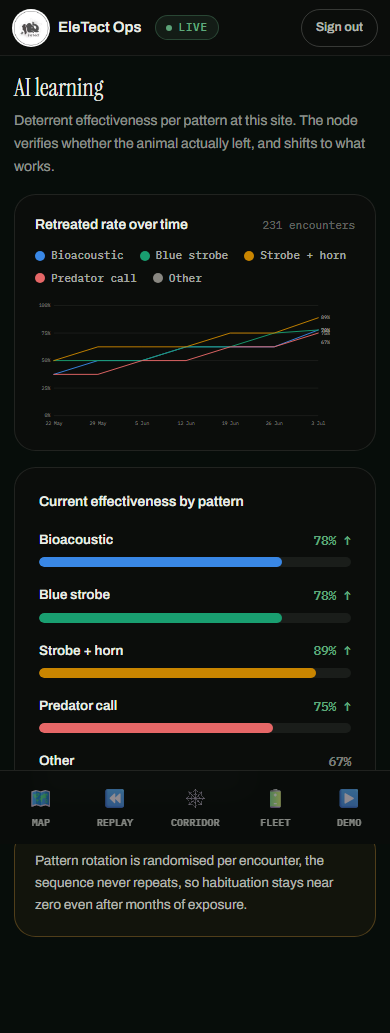
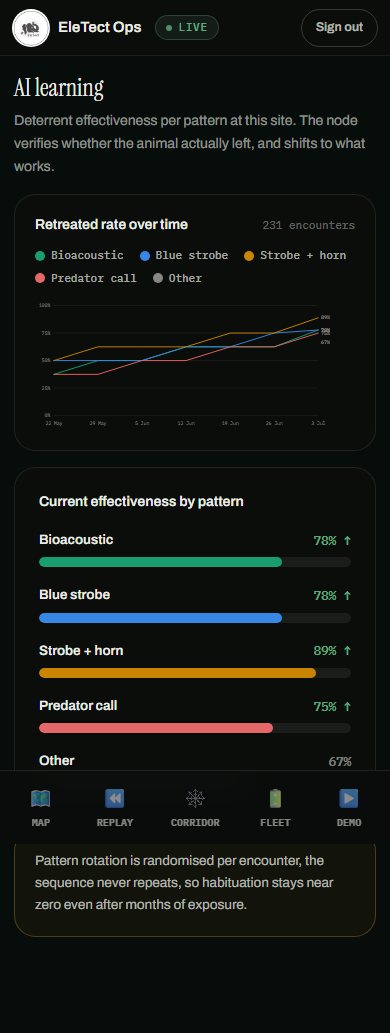
fix(web): pin blue strobe to the blue series slot

diff --git a/web/frontend/src/lib/learning.ts b/web/frontend/src/lib/learning.ts
@@ -9,6 +9,10 @@ import type { EventRow } from './dashboard'
 // colour follows the action entity, never its rank. See scripts/validate_palette.
 const SERIES_COLORS = ['#3987e5', '#199e70', '#c98500', '#e66767']
 const OTHER_COLOR = '#898781'
+// A few actions read wrong if their hue floats: "Blue strobe" in green confuses
+// more than it distinguishes. Pin those to a fixed slot; every other action keeps
+// filling the remaining slots in volume-rank order.
+const PINNED_COLORS: Record<string, string> = { 'Blue strobe': '#3987e5' }
 const WEEK_MS = 7 * 24 * 60 * 60 * 1000
 const MAX_SERIES = SERIES_COLORS.length
 // A rate from too few encounters is noise, not a trend — such a bucket reads as a
@@ -88,12 +92,25 @@ export function buildTrendModel(events: EventRow[]): TrendModel {
   }
   if (hi < 0) return { weeks: [], series: [], sampleCount: scored.length }
 
+  // Assign hues: honour pinned actions first, then hand the remaining palette
+  // slots to the rest in volume-rank order so nothing collides with a pin.
+  const colorFor = new Map<string, string>()
+  for (const name of seriesNames) {
+    if (name !== 'Other' && PINNED_COLORS[name]) colorFor.set(name, PINNED_COLORS[name])
+  }
+  const freeSlots = SERIES_COLORS.filter((c) => ![...colorFor.values()].includes(c))
+  let slot = 0
+  for (const name of seriesNames) {
+    if (name === 'Other' || colorFor.has(name)) continue
+    colorFor.set(name, freeSlots[slot++] ?? OTHER_COLOR)
+  }
+
   const series: TrendSeries[] = seriesNames.map((name, i) => {
     const points = rawPoints[i].slice(lo, hi + 1)
     const valid = points.filter((p): p is number => p != null)
     return {
       action: name,
-      color: name === 'Other' ? OTHER_COLOR : SERIES_COLORS[i],
+      color: name === 'Other' ? OTHER_COLOR : colorFor.get(name)!,
       points,
       current: valid.length > 0 ? valid[valid.length - 1] : null,
       previous: valid.length > 1 ? valid[valid.length - 2] : null,
